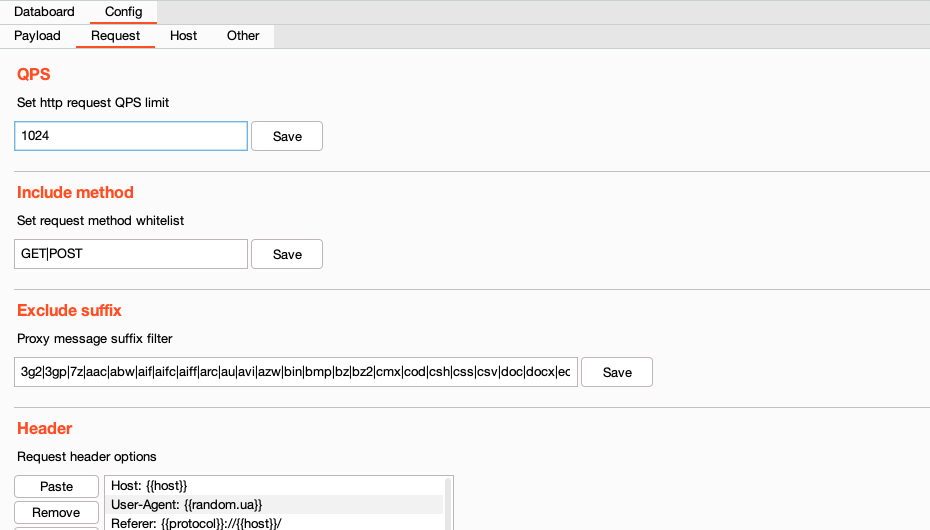
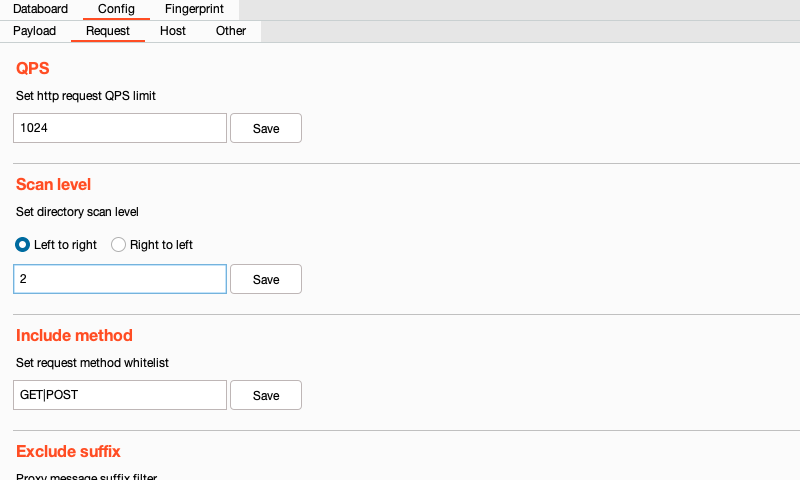
更新README.md中的说明和截图

diff --git a/README.md b/README.md
@@ -97,6 +97,7 @@ C:\Users\<用户名>\.config\OneScan\
 - `Exclude Header` 开关排除请求头（默认禁用），根据 `Request -> Exclude header` 里的配置，排除请求头中对应的值
 - `Replace Header` 开关请求头替换（默认启用），使用 `Request -> Header` 中配置的请求头请求数据
 - `DirScan` 开关递归扫描（默认启用），对目标进行递归扫描
+- `Merge Payload Processing` 开关合并目录扫描与Payload Processing扫描（默认启用），关闭后发送请求数量将多一倍
 - `Filter` 设置数据过滤规则
 - `Import url` 导入 Url 目标进行扫描
 - `Stop` 停止正在扫描的任务
@@ -131,7 +132,8 @@ Request配置界面如下
 
 ![](imgs/config_request.png)
 
-- `QPS` QPS限制，限制每秒请求的数量，最大值 `9999`
+- `QPS` QPS限制，限制每秒请求的数量，范围（`1-9999`）
+- `Scan level` 限制目录扫描层级，范围（`1-99`）。限制方向：`Left to right`（从左往右），`Right to left`（从右往左）
 - `Include method` 配置请求方法白名单
 - `Exclude suffix` 排除指定后缀的数据包
 - `Header` 递归扫描过程的请求头配置，可配置变量
